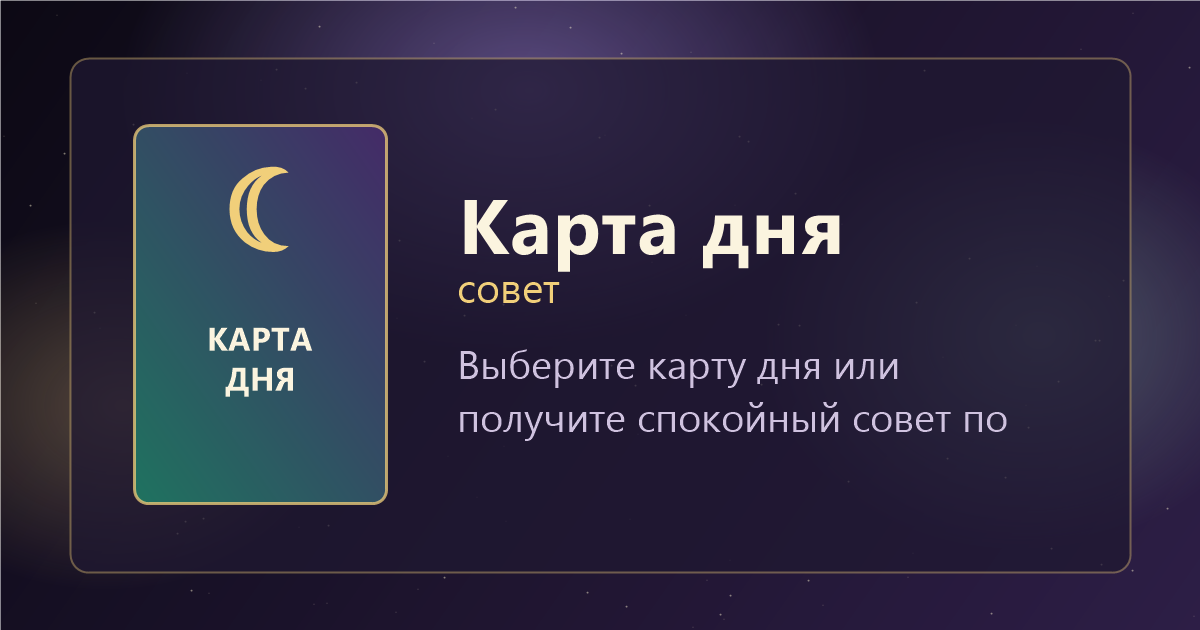
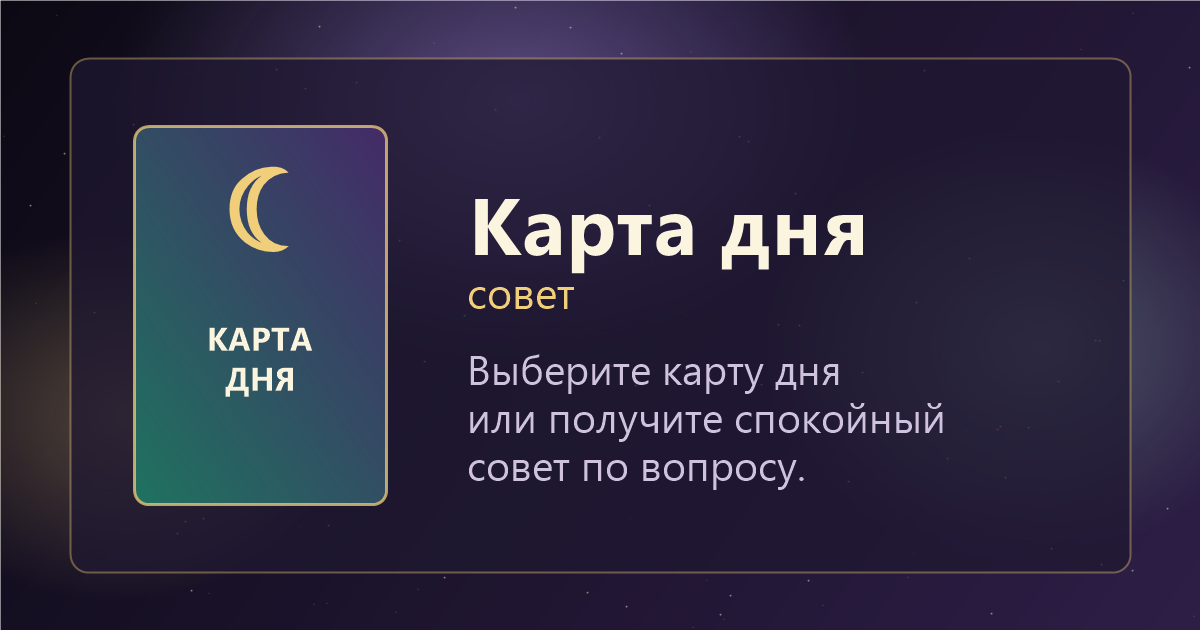
Refine share and preview image spacing

diff --git a/index.html b/index.html
@@ -2370,7 +2370,7 @@
       ctx.textAlign = "center";
       ctx.fillText(card.role || "Карта дня", width / 2, 158);
 
-      const cardBox = fitRect(cardImage.width, cardImage.height, 260, 205, 560, 850);
+      const cardBox = fitRect(cardImage.width, cardImage.height, 270, 195, 540, 800);
       ctx.save();
       ctx.shadowColor = "rgba(0,0,0,.5)";
       ctx.shadowBlur = 38;
@@ -2391,22 +2391,22 @@
       ctx.fillStyle = cream;
       ctx.font = "800 80px system-ui, -apple-system, Segoe UI, sans-serif";
       ctx.textAlign = "center";
-      wrapCanvasText(ctx, `${card.name}${orientation}`, width / 2, 1106, 880, 88, 2);
+      wrapCanvasText(ctx, `${card.name}${orientation}`, width / 2, 1124, 880, 88, 2);
 
       ctx.fillStyle = gold;
       ctx.font = "700 46px system-ui, -apple-system, Segoe UI, sans-serif";
-      wrapCanvasText(ctx, card.meaning, width / 2, 1254, 830, 58, 3);
+      wrapCanvasText(ctx, card.meaning, width / 2, 1290, 830, 58, 3);
 
       ctx.strokeStyle = "rgba(241,207,122,.28)";
       ctx.lineWidth = 2;
       ctx.beginPath();
-      ctx.moveTo(235, 1430);
-      ctx.lineTo(width - 235, 1430);
+      ctx.moveTo(235, 1460);
+      ctx.lineTo(width - 235, 1460);
       ctx.stroke();
 
       ctx.fillStyle = muted;
       ctx.font = "400 52px system-ui, -apple-system, Segoe UI, sans-serif";
-      wrapCanvasText(ctx, card.message, width / 2, 1504, 860, 68, 4);
+      wrapCanvasText(ctx, card.message, width / 2, 1532, 860, 68, 4);
 
       ctx.fillStyle = gold;
       ctx.font = "700 34px system-ui, -apple-system, Segoe UI, sans-serif";
